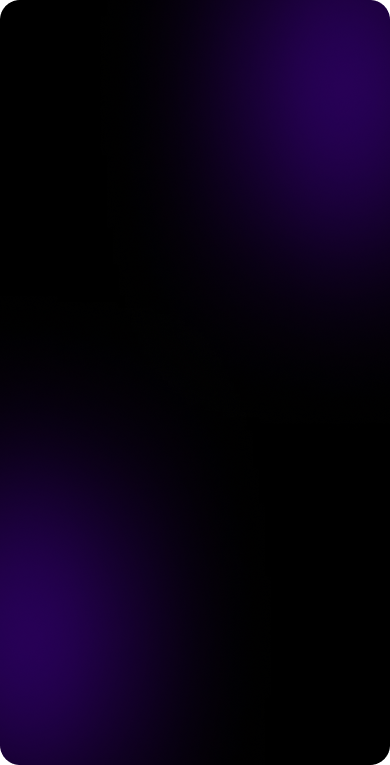
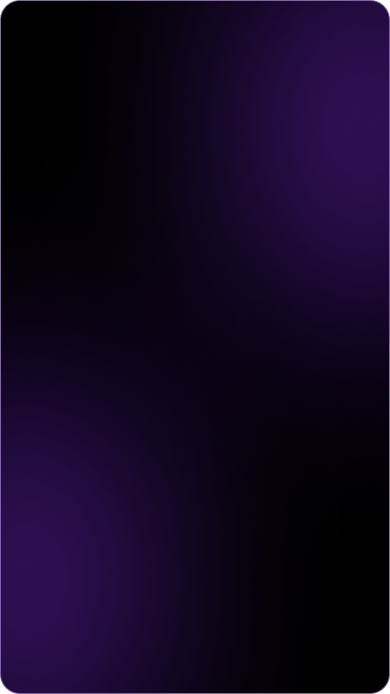
feat: implement QR code fetching for ticket confirmations and refactor RedeemSuccessModal to a custom overlay implementation

diff --git a/src/screens/ticketLandingScreen/components/RedeemSuccessModal.js b/src/screens/ticketLandingScreen/components/RedeemSuccessModal.js
@@ -1,14 +1,17 @@
 import React, { useEffect, useMemo, useRef, useState } from 'react';
 import {
   Animated,
+  BackHandler,
   ImageBackground,
-  Modal,
+  Platform,
   StyleSheet,
   Text,
+  Image,
   TouchableOpacity,
   View,
 } from 'react-native';
 import { wp, hp } from '../../../utils/responsive';
+import icons from '@/assets/icons';
 
 export const preloadRedeemSuccessAssets = () => {};
 
@@ -31,11 +34,11 @@ const RedeemSuccessModal = ({
 }) => {
   const scaleAnim = useRef(new Animated.Value(0.88)).current;
   const opacityAnim = useRef(new Animated.Value(0)).current;
-  const [modalVisible, setModalVisible] = useState(false);
+  const [mounted, setMounted] = useState(false);
 
   useEffect(() => {
     if (visible) {
-      setModalVisible(true);
+      setMounted(true);
       Animated.parallel([
         Animated.spring(scaleAnim, {
           toValue: 1,
@@ -49,7 +52,7 @@ const RedeemSuccessModal = ({
           useNativeDriver: true,
         }),
       ]).start();
-    } else {
+    } else if (mounted) {
       Animated.parallel([
         Animated.timing(scaleAnim, {
           toValue: 0.88,
@@ -63,13 +66,25 @@ const RedeemSuccessModal = ({
         }),
       ]).start(({ finished }) => {
         if (finished) {
-          setModalVisible(false);
+          setMounted(false);
           scaleAnim.setValue(0.88);
           opacityAnim.setValue(0);
         }
       });
     }
+    // eslint-disable-next-line react-hooks/exhaustive-deps
   }, [visible]);
+
+  // Plain overlay has no native surface of its own, so the hardware back
+  // button no longer gets swallowed for free the way RN's Modal did it.
+  useEffect(() => {
+    if (Platform.OS !== 'android' || !visible) return undefined;
+    const sub = BackHandler.addEventListener('hardwareBackPress', () => {
+      onBack?.();
+      return true;
+    });
+    return () => sub.remove();
+  }, [visible, onBack]);
 
   const dateStr = useMemo(
     () =>
@@ -81,14 +96,10 @@ const RedeemSuccessModal = ({
     [],
   );
 
+  if (!mounted) return null;
+
   return (
-    <Modal
-      transparent
-      visible={modalVisible}
-      animationType="none"
-      statusBarTranslucent
-      onRequestClose={onBack}
-    >
+    <View style={StyleSheet.absoluteFill} pointerEvents="box-none">
       {/* Dark backdrop */}
       <Animated.View style={[styles.backdrop, { opacity: opacityAnim }]} />
 
@@ -103,14 +114,14 @@ const RedeemSuccessModal = ({
           <ImageBackground
             source={require('../../../assets/images/movieTicket/successBg.png')}
             style={styles.card}
-            imageStyle={styles.cardImage}
-            resizeMode="cover"
+            resizeMode="stretch"
           >
             {/* Purple checkmark circle */}
-            <View style={styles.checkCircle}>
+            {/* <View style={styles.checkCircle}>
               <Text style={styles.checkMark}>✓</Text>
-            </View>
+            </View> */}
 
+            <Image source={icons.tickmark} style={styles.checkIcon} />
             <Text style={styles.successText}>SUCCESS</Text>
             <Text style={styles.subtitleText}>
               Your booking for {quantity} {itemLabel}
@@ -158,7 +169,7 @@ const RedeemSuccessModal = ({
           </ImageBackground>
         </Animated.View>
       </View>
-    </Modal>
+    </View>
   );
 };
 
@@ -182,15 +193,10 @@ const styles = StyleSheet.create({
   },
 
   card: {
-    borderRadius: 22,
-    overflow: 'hidden',
     paddingHorizontal: wp(6),
     paddingTop: hp(4),
     paddingBottom: hp(3),
     alignItems: 'center',
-  },
-  cardImage: {
-    borderRadius: 22,
   },
 
   checkCircle: {
@@ -219,8 +225,8 @@ const styles = StyleSheet.create({
     fontFamily: 'Gilroy-Bold',
     color: '#6E34C0',
     textAlign: 'center',
-    letterSpacing: 4,
-    marginBottom: hp(0.8),
+    letterSpacing: 2,
+    marginVertical: hp(1),
   },
   subtitleText: {
     fontSize: 13,

diff --git a/src/hooks/useEventPayment.js b/src/hooks/useEventPayment.js
@@ -7,6 +7,7 @@ import {
   verifyEventBookingPaymentApi,
   confirmEventPaymentApi,
   failEventPaymentApi,
+  getEventTicketQrCodeApi,
 } from '../api/eventService';
 import { AppContext } from '../context/appContext';
 import logger from '../utils/logger';
@@ -84,8 +85,6 @@ export const useEventPayment = () => {
         });
       } catch (err) {
         if (bookingId) {
-          // Booking already exists server-side but payment wasn't captured -
-          // record the failure so it isn't left dangling as unpaid.
           await failEventPaymentApi({
             bookingId,
             paymentGateway: PAYMENT_GATEWAY,
@@ -100,15 +99,10 @@ export const useEventPayment = () => {
           '[useEventPayment] Booking/payment failed:',
           err?.description || err?.message,
         );
-        // Payment was denied by the user or declined for any other reason
-        // before it could be captured - surface the failure modal instead of
-        // a backend error toast.
+
         setFailureVisible(true);
         return { success: false, failed: true, bookingId };
       }
-
-      // Razorpay has confirmed the payment at this point - any failure below is
-      // a verification/network issue, never a failed payment.
       try {
         const verifyRes = await verifyEventBookingPaymentApi({
           bookingId,
@@ -125,17 +119,22 @@ export const useEventPayment = () => {
           );
           return { success: false, pending: true, bookingId };
         }
-
-        // Signature verified - tell the backend the payment is settled so it
-        // can record the transaction and finalize the booking.
-        await confirmEventPaymentApi({
+        const confirmPayload = {
           bookingId,
           paymentGateway: PAYMENT_GATEWAY,
           transactionId: sdkResponse.razorpay_payment_id,
           gatewayReference: sdkResponse.razorpay_order_id,
-        });
+        };
+        await confirmEventPaymentApi(confirmPayload);
 
         setSuccessVisible(true);
+
+        getEventTicketQrCodeApi(bookingId)
+          .then(res => console.log('[useEventPayment] QR code response:', res))
+          .catch(err =>
+            console.log('[useEventPayment] QR code fetch failed:', err),
+          );
+
         return { success: true, bookingId };
       } catch (verifyError) {
         logger.error(

diff --git a/src/screens/EventDetailsScreen/styles.js b/src/screens/EventDetailsScreen/styles.js
@@ -85,11 +85,9 @@ const styles = StyleSheet.create({
     textShadowRadius: 6,
   },
 
-  /* Claim banner — black metallic */
   bannerWrap: {
     marginHorizontal: 20,
     marginTop: 16,
-    // borderWidth: 0.5,
     borderColor: '#E8E8E8',
     borderRadius: 16,
   },
@@ -99,7 +97,6 @@ const styles = StyleSheet.create({
     borderRadius: 16,
     borderWidth: 1,
     borderColor: 'rgba(255,255,255,0.18)',
-    backgroundColor: '#1F1F24',
     paddingVertical: 12,
     paddingHorizontal: 14,
     overflow: 'hidden',

diff --git a/src/screens/EventDetailsScreen/EventDetailsScreen.js b/src/screens/EventDetailsScreen/EventDetailsScreen.js
@@ -85,7 +85,10 @@ const EventDetailsScreen = ({ navigation, route }) => {
     resetPayment();
     navigation.navigate('MyBookingsScreen');
   }, [resetPayment, navigation]);
-  const handleFailureBack = useCallback(() => dismissFailure(), [dismissFailure]);
+  const handleFailureBack = useCallback(
+    () => dismissFailure(),
+    [dismissFailure],
+  );
   const handleRetryPayment = useCallback(() => {
     dismissFailure();
     setTicketModalVisible(true);

diff --git a/src/api/eventService.js b/src/api/eventService.js
@@ -74,6 +74,10 @@ export const confirmEventPaymentApi = async (
   );
 };
 
+export const getEventTicketQrCodeApi = async (ticketId, config) => {
+  return get(`eventticket/qrcode/${ticketId}`, config);
+};
+
 export const failEventPaymentApi = async (
   { bookingId, paymentGateway, transactionId, gatewayReference, remarks },
   config,
